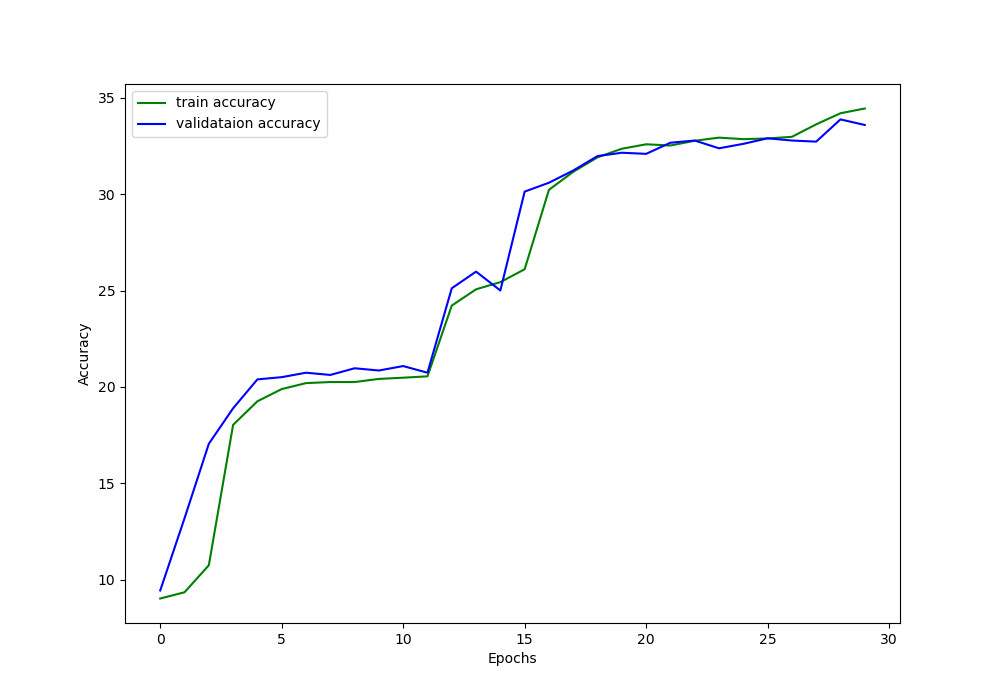
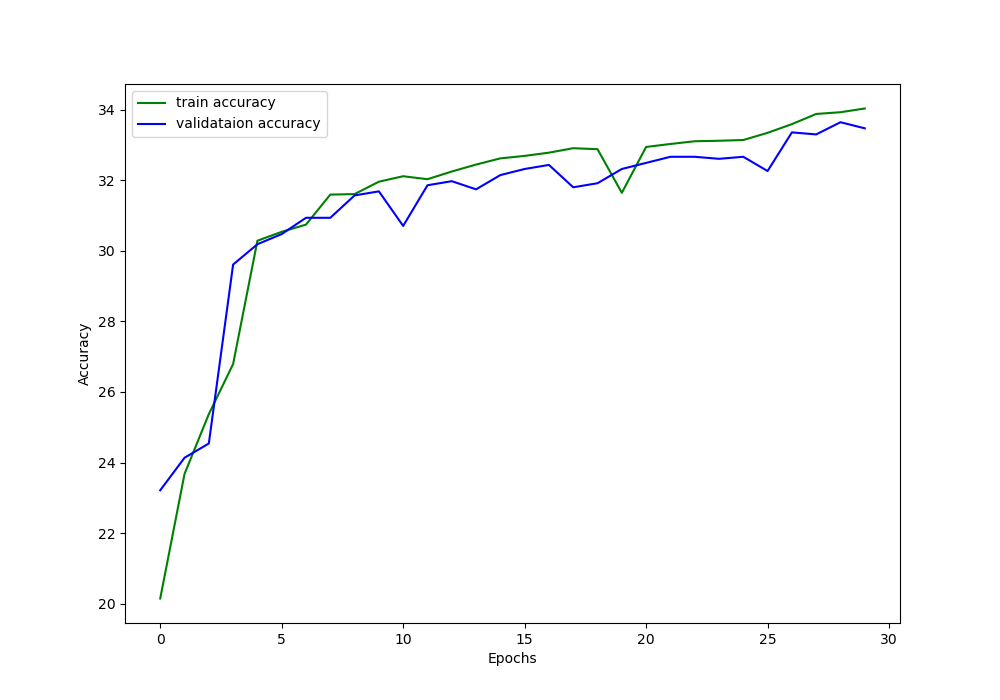
big update

diff --git a/train_resnet_sub.py b/train_resnet_sub.py
@@ -27,7 +27,9 @@ else:
  
 batch_size = 128
 epochs = 30
-log_fol = './log_paper'
+log_fol = './log_resnet_Khanh'
+if not os.path.exists(log_fol):
+    os.mkdir(log_fol)
 
 def fit(model, train_data, train_loader, criterion, optimizer):
     print('Training')
@@ -87,29 +89,28 @@ def test(model, test_loader):
 
 
 def main():
-    # augments = ['org', 'crop', 'jitter', 'pca', 'flipflop', 'rot', 'edge']
-    augments = ['rot', 'jitter']
+    augments = ['org', 'crop', 'jitter', 'pca', 'flipflop', 'rot', 'edge']
+    # augments = ['rot', 'jitter']
 
     #######OLD LOAD########################################################
-    # raw_x = np.load('../dataset/new_data/org.npy', allow_pickle=True)
-    # raw_y = np.load('../dataset/new_data/org_label.npy', allow_pickle=True)
+    raw_x = np.load('../dataset/subset_data/subset_subset.npy', allow_pickle=True)
+    raw_y = np.load('../dataset/subset_data/subset_subset_label.npy', allow_pickle=True)
 
-    # X, x_val , Y, y_val = train_test_split(raw_x, raw_y, 
-    #                                                         test_size=0.2,
-    #                                                         random_state=42)
-    # raw_x, x_test, raw_y, y_test = train_test_split(X, Y, 
-    #                                                         test_size=0.2, 
-    #                                                         random_state=42)
-    # np.save('./fixed_x_raw.npy', raw_x)
-    # np.save('./fixed_y_raw.npy', raw_y)                      
+    # X = np.load('../dataset/subset_data/subset_subset_test.npy', allow_pickle=True)
+    # Y = np.load('../dataset/subset_data/subset_subset_test_label.npy', allow_pickle=True)
+
+    # x_test, x_val , y_test, y_val = train_test_split(raw_x, raw_y, 
+    #                                                         test_size=0.5,
+    #                                                         random_state=10)
+                 
     # np.save('./fixed_x_val.npy', x_val)
     # np.save('./fixed_y_val.npy', y_val)     
     # np.save('./fixed_x_test.npy', x_test)     
     # np.save('./fixed_y_test.npy', y_test)
     #######OLD LOAD######################################################## 
-    print('Loading fixed train/val/test set...')
-    raw_x = np.load('./fixed_x_raw.npy', allow_pickle=True)
-    raw_y = np.load('./fixed_y_raw.npy', allow_pickle=True)
+    print('Loading fixed val/test set...')
+    # raw_x = np.load('./fixed_x_raw.npy', allow_pickle=True)
+    # raw_y = np.load('./fixed_y_raw.npy', allow_pickle=True)
     x_val = np.load('./fixed_x_val.npy', allow_pickle=True)
     y_val = np.load('./fixed_y_val.npy', allow_pickle=True)
     x_test = np.load('./fixed_x_test.npy', allow_pickle=True)
@@ -126,8 +127,8 @@ def main():
 
     for aug in augments:
         if aug != 'org':
-            x_train = np.load('../dataset/new_data/{}.npy'.format(aug), allow_pickle=True)
-            y_train = np.load('../dataset/new_data/{}_label.npy'.format(aug), allow_pickle=True)
+            x_train = np.load('../dataset/subset_data/subset_{}.npy'.format(aug), allow_pickle=True)
+            y_train = np.load('../dataset/subset_data/subset_{}_label.npy'.format(aug), allow_pickle=True)
 
             x_train = np.concatenate((x_train, raw_x), axis=0)
             y_train = np.concatenate((y_train, raw_y), axis=0)
@@ -140,7 +141,8 @@ def main():
         train_loader = torch.utils.data.DataLoader(
             train_data, batch_size=batch_size, shuffle=True, num_workers=8)
 
-        model = PaperNet()
+        model = models.resnet34(pretrained=False)
+        model.fc = nn.Linear(in_features=512, out_features=10)
         model = model.to(device)
 
         optimizer = optim.Adam(model.parameters(), lr=2e-4, weight_decay = 0.0005)
@@ -161,10 +163,10 @@ def main():
             val_accuracy.append(val_epoch_accuracy)
             if val_epoch_accuracy > val_acc:
                 val_acc = val_epoch_accuracy
-                torch.save(model.state_dict(), f"./{log_fol}/best_ckp_paper_{aug}.pth")
+                torch.save(model.state_dict(), f"./{log_fol}/best_ckp_{aug}.pth")
         end = time.time()
         print((end-start)/60, 'minutes')
-        torch.save(model.state_dict(), f"./{log_fol}/last_ckp_paper_{aug}.pth")
+        torch.save(model.state_dict(), f"./{log_fol}/last_ckp_{aug}.pth")
         # accuracy plots
         plt.figure(figsize=(10, 7))
         plt.plot(train_accuracy, color='green', label='train accuracy')
@@ -172,7 +174,7 @@ def main():
         plt.xlabel('Epochs')
         plt.ylabel('Accuracy')
         plt.legend()
-        plt.savefig('./{}/accuracy_paper_{}.png'.format(log_fol, aug))
+        plt.savefig('./{}/accuracy_{}.png'.format(log_fol, aug))
         # loss plots
         plt.figure(figsize=(10, 7))
         plt.plot(train_loss, color='orange', label='train loss')
@@ -180,6 +182,6 @@ def main():
         plt.xlabel('Epochs')
         plt.ylabel('Loss')
         plt.legend()
-        plt.savefig('./{}/loss_paper_{}.png'.format(log_fol, aug))
+        plt.savefig('./{}/loss_{}.png'.format(log_fol, aug))
 
 main()

diff --git a/train_paper_sub.py b/train_paper_sub.py
@@ -27,7 +27,9 @@ else:
  
 batch_size = 128
 epochs = 30
-log_fol = './log_paper'
+log_fol = './log_paper_Khanh'
+if not os.path.exists(log_fol):
+    os.mkdir(log_fol)
 
 def fit(model, train_data, train_loader, criterion, optimizer):
     print('Training')
@@ -87,29 +89,28 @@ def test(model, test_loader):
 
 
 def main():
-    # augments = ['org', 'crop', 'jitter', 'pca', 'flipflop', 'rot', 'edge']
-    augments = ['rot', 'jitter']
+    augments = ['org', 'crop', 'jitter', 'pca', 'flipflop', 'rot', 'edge']
+    # augments = ['rot', 'jitter']
 
     #######OLD LOAD########################################################
-    # raw_x = np.load('../dataset/new_data/org.npy', allow_pickle=True)
-    # raw_y = np.load('../dataset/new_data/org_label.npy', allow_pickle=True)
+    raw_x = np.load('../dataset/subset_data/subset_subset.npy', allow_pickle=True)
+    raw_y = np.load('../dataset/subset_data/subset_subset_label.npy', allow_pickle=True)
 
-    # X, x_val , Y, y_val = train_test_split(raw_x, raw_y, 
-    #                                                         test_size=0.2,
-    #                                                         random_state=42)
-    # raw_x, x_test, raw_y, y_test = train_test_split(X, Y, 
-    #                                                         test_size=0.2, 
-    #                                                         random_state=42)
-    # np.save('./fixed_x_raw.npy', raw_x)
-    # np.save('./fixed_y_raw.npy', raw_y)                      
+    # X = np.load('../dataset/subset_data/subset_subset_test.npy', allow_pickle=True)
+    # Y = np.load('../dataset/subset_data/subset_subset_test_label.npy', allow_pickle=True)
+
+    # x_test, x_val , y_test, y_val = train_test_split(X, Y, 
+    #                                                         test_size=0.5,
+    #                                                         random_state=10)
+                 
     # np.save('./fixed_x_val.npy', x_val)
     # np.save('./fixed_y_val.npy', y_val)     
     # np.save('./fixed_x_test.npy', x_test)     
     # np.save('./fixed_y_test.npy', y_test)
     #######OLD LOAD######################################################## 
     print('Loading fixed train/val/test set...')
-    raw_x = np.load('./fixed_x_raw.npy', allow_pickle=True)
-    raw_y = np.load('./fixed_y_raw.npy', allow_pickle=True)
+    # raw_x = np.load('./fixed_x_raw.npy', allow_pickle=True)
+    # raw_y = np.load('./fixed_y_raw.npy', allow_pickle=True)
     x_val = np.load('./fixed_x_val.npy', allow_pickle=True)
     y_val = np.load('./fixed_y_val.npy', allow_pickle=True)
     x_test = np.load('./fixed_x_test.npy', allow_pickle=True)
@@ -126,8 +127,8 @@ def main():
 
     for aug in augments:
         if aug != 'org':
-            x_train = np.load('../dataset/new_data/{}.npy'.format(aug), allow_pickle=True)
-            y_train = np.load('../dataset/new_data/{}_label.npy'.format(aug), allow_pickle=True)
+            x_train = np.load('../dataset/subset_data/subset_{}.npy'.format(aug), allow_pickle=True)
+            y_train = np.load('../dataset/subset_data/subset_{}_label.npy'.format(aug), allow_pickle=True)
 
             x_train = np.concatenate((x_train, raw_x), axis=0)
             y_train = np.concatenate((y_train, raw_y), axis=0)
@@ -140,7 +141,7 @@ def main():
         train_loader = torch.utils.data.DataLoader(
             train_data, batch_size=batch_size, shuffle=True, num_workers=8)
 
-        model = PaperNet()
+        model = PaperNet(num_classes=10)
         model = model.to(device)
 
         optimizer = optim.Adam(model.parameters(), lr=2e-4, weight_decay = 0.0005)

diff --git a/test_resnet_sub.py b/test_resnet_sub.py
@@ -3,6 +3,8 @@ import numpy as np
 import os
 from models.network import PaperNet
 from dataloader import ImageDataset
+import torchvision.models as models
+import torch.nn as nn
 
 os.environ["CUDA_VISIBLE_DEVICES"] = "6"
 torch.set_num_threads(8)
@@ -13,16 +15,18 @@ else:
     device = 'cpu'
 # print(device)
 
-log_fol = './log_paper'
+log_fol = './log_resnet_Khanh'
 
 augments = ['org', 'crop', 'jitter', 'pca', 'flipflop', 'rot', 'edge']
 
-x_test = np.load('./fixed_x_test.npy', allow_pickle=True)
-y_test = np.load('./fixed_y_test.npy', allow_pickle=True)
+x_test = np.load('../dataset/subset_data/subset_subset_test.npy', allow_pickle=True)
+y_test = np.load('../dataset/subset_data/subset_subset_test_label.npy', allow_pickle=True)
 test_data = ImageDataset(x_test, y_test)
 test_loader = torch.utils.data.DataLoader(
             test_data, batch_size=64, shuffle=True, num_workers=0)
-model = PaperNet()
+
+model = models.resnet34(pretrained=False)
+model.fc = nn.Linear(in_features=512, out_features=10)
 model = model.to(device)
 
 def test(model, test_loader):
@@ -43,7 +47,7 @@ def test(model, test_loader):
 for augment in augments:
     print('-'*50)
     print('Testing {} augmentation'.format(augment))
-    checkpoint = torch.load('./{}/best_ckp_paper_{}.pth'.format(log_fol, augment))
+    checkpoint = torch.load('./{}/best_ckp_{}.pth'.format(log_fol, augment))
     model.load_state_dict(checkpoint)
 
     correct, total, predicted, target = test(model, test_loader)

diff --git a/test_resnet.py b/test_resnet.py
@@ -3,6 +3,8 @@ import numpy as np
 import os
 from models.network import PaperNet
 from dataloader import ImageDataset
+import torchvision.models as models
+import torch.nn as nn
 
 os.environ["CUDA_VISIBLE_DEVICES"] = "6"
 torch.set_num_threads(8)
@@ -13,8 +15,6 @@ else:
     device = 'cpu'
 # print(device)
 
-log_fol = './log_paper'
-
 augments = ['org', 'crop', 'jitter', 'pca', 'flipflop', 'rot', 'edge']
 
 x_test = np.load('./fixed_x_test.npy', allow_pickle=True)
@@ -22,7 +22,9 @@ y_test = np.load('./fixed_y_test.npy', allow_pickle=True)
 test_data = ImageDataset(x_test, y_test)
 test_loader = torch.utils.data.DataLoader(
             test_data, batch_size=64, shuffle=True, num_workers=0)
-model = PaperNet()
+
+model = models.resnet34(pretrained=False)
+model.fc = nn.Linear(in_features=512, out_features=101)
 model = model.to(device)
 
 def test(model, test_loader):
@@ -43,7 +45,7 @@ def test(model, test_loader):
 for augment in augments:
     print('-'*50)
     print('Testing {} augmentation'.format(augment))
-    checkpoint = torch.load('./{}/best_ckp_paper_{}.pth'.format(log_fol, augment))
+    checkpoint = torch.load('./log_resnet/best_ckp_{}.pth'.format(augment))
     model.load_state_dict(checkpoint)
 
     correct, total, predicted, target = test(model, test_loader)

diff --git a/test_paper_sub.py b/test_paper_sub.py
@@ -13,16 +13,16 @@ else:
     device = 'cpu'
 # print(device)
 
-log_fol = './log_paper'
+log_fol = './log_paper_Khanh'
 
 augments = ['org', 'crop', 'jitter', 'pca', 'flipflop', 'rot', 'edge']
 
-x_test = np.load('./fixed_x_test.npy', allow_pickle=True)
-y_test = np.load('./fixed_y_test.npy', allow_pickle=True)
+x_test = np.load('../dataset/subset_data/subset_subset_test.npy', allow_pickle=True)
+y_test = np.load('../dataset/subset_data/subset_subset_test_label.npy', allow_pickle=True)
 test_data = ImageDataset(x_test, y_test)
 test_loader = torch.utils.data.DataLoader(
             test_data, batch_size=64, shuffle=True, num_workers=0)
-model = PaperNet()
+model = PaperNet(num_classes=10)
 model = model.to(device)
 
 def test(model, test_loader):

diff --git a/train_resnet.py b/train_resnet.py
@@ -90,8 +90,8 @@ def test(model, test_loader):
 
 
 def main():
-    augments = ['org', 'crop', 'pca', 'flipflop', 'edge', 'rot','jitter']
-    # augments = ['crop', 'jitter', 'pca', 'flipflop']
+    # augments = ['org', 'crop', 'pca', 'flipflop', 'edge', 'rot','jitter']
+    augments = ['rot', 'jitter']
 
     #######OLD LOAD########################################################
     # raw_x = np.load('../dataset/new_data/org.npy', allow_pickle=True)
